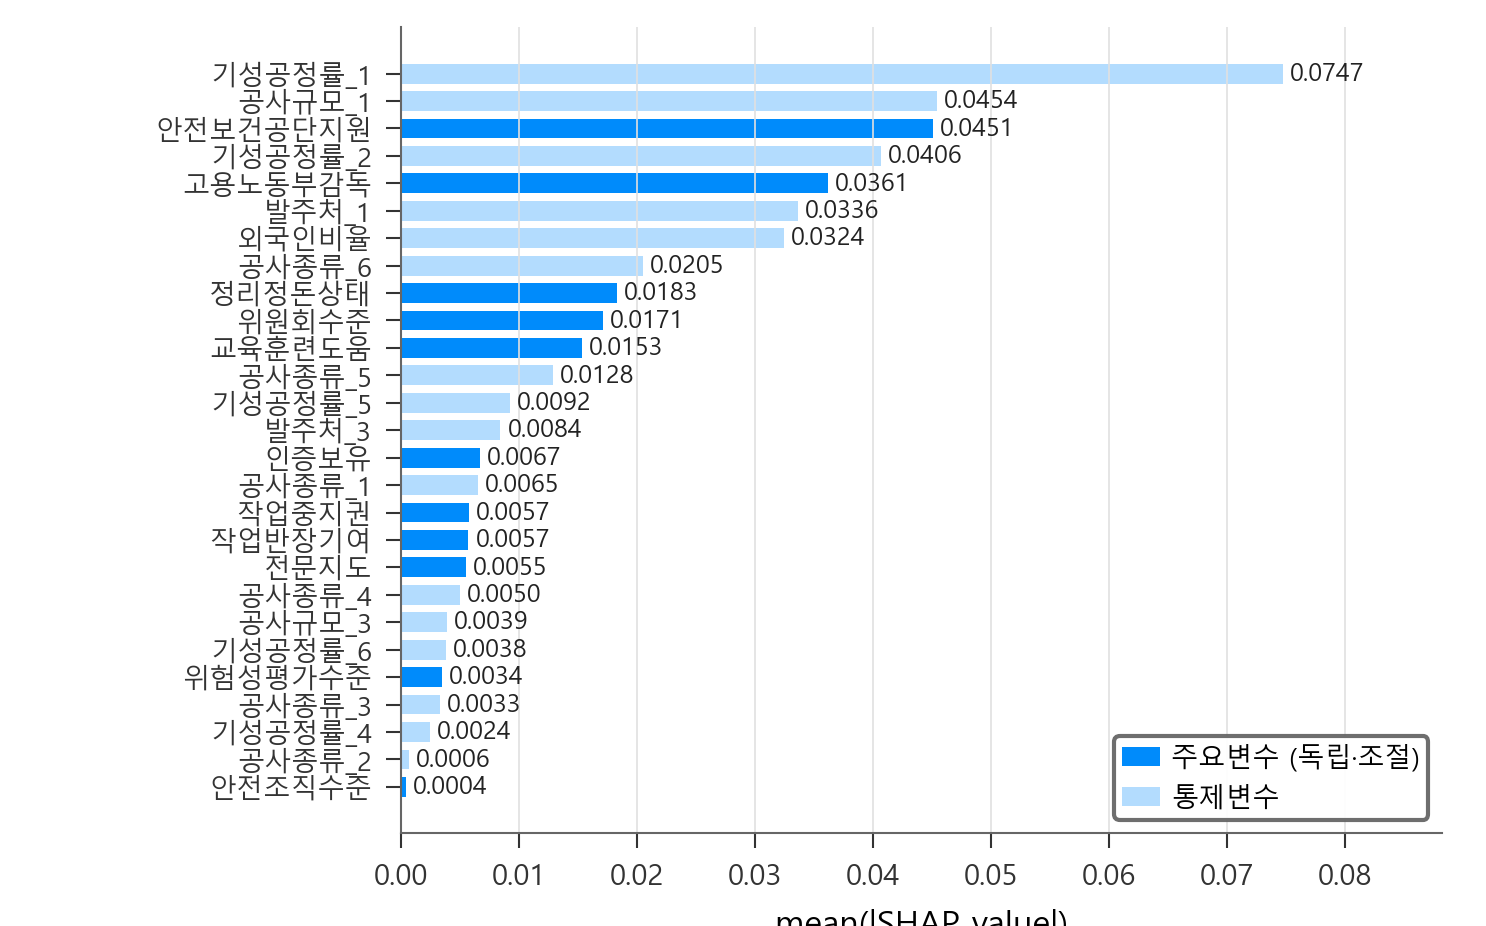
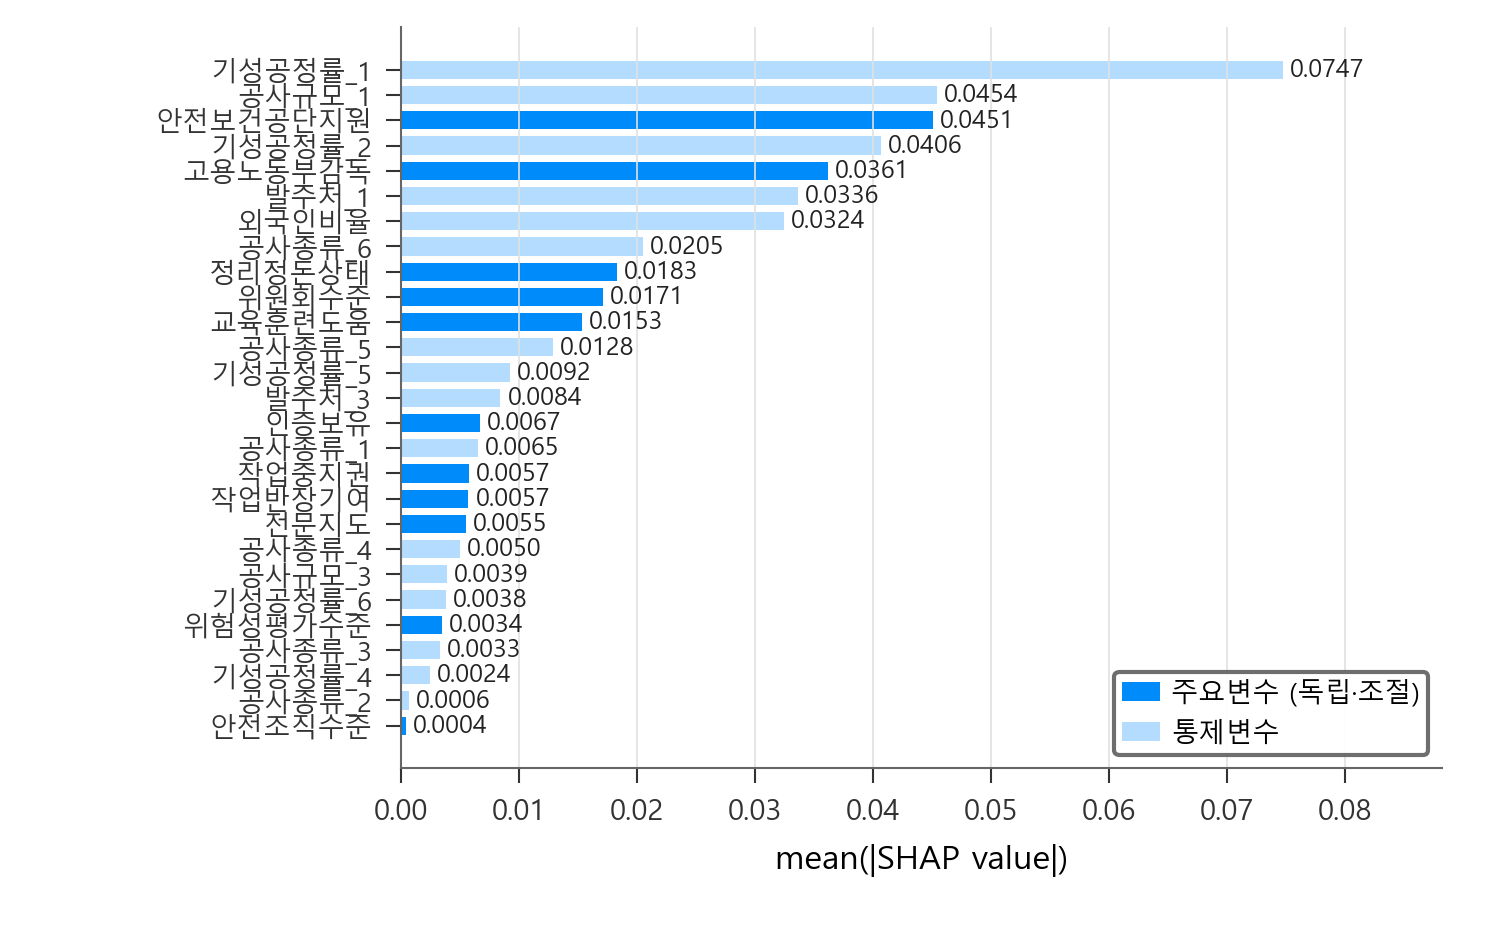
13_shap_bar: xlabel 'mean(|SHAP value|)' 잘림 수정 (gs bottom 0.10 → 0.17)

diff --git a/src/paper_figures.py b/src/paper_figures.py
@@ -161,7 +161,7 @@ bar_colors = [COLOR_FOCUS if f else COLOR_CTRL_LT for f in bar_df['is_focus']]
 
 W = 125.85 / 25.4; H = 78.46 / 25.4
 fig = plt.figure(figsize=(W, H))
-gs = GridSpec(1, 1, left=0.27, right=0.97, top=0.97, bottom=0.10, figure=fig)
+gs = GridSpec(1, 1, left=0.27, right=0.97, top=0.97, bottom=0.17, figure=fig)
 ax = fig.add_subplot(gs[0])
 ax.barh(np.arange(len(bar_df)), bar_df['mean|SHAP|'],
         color=bar_colors, edgecolor='none', height=0.72)